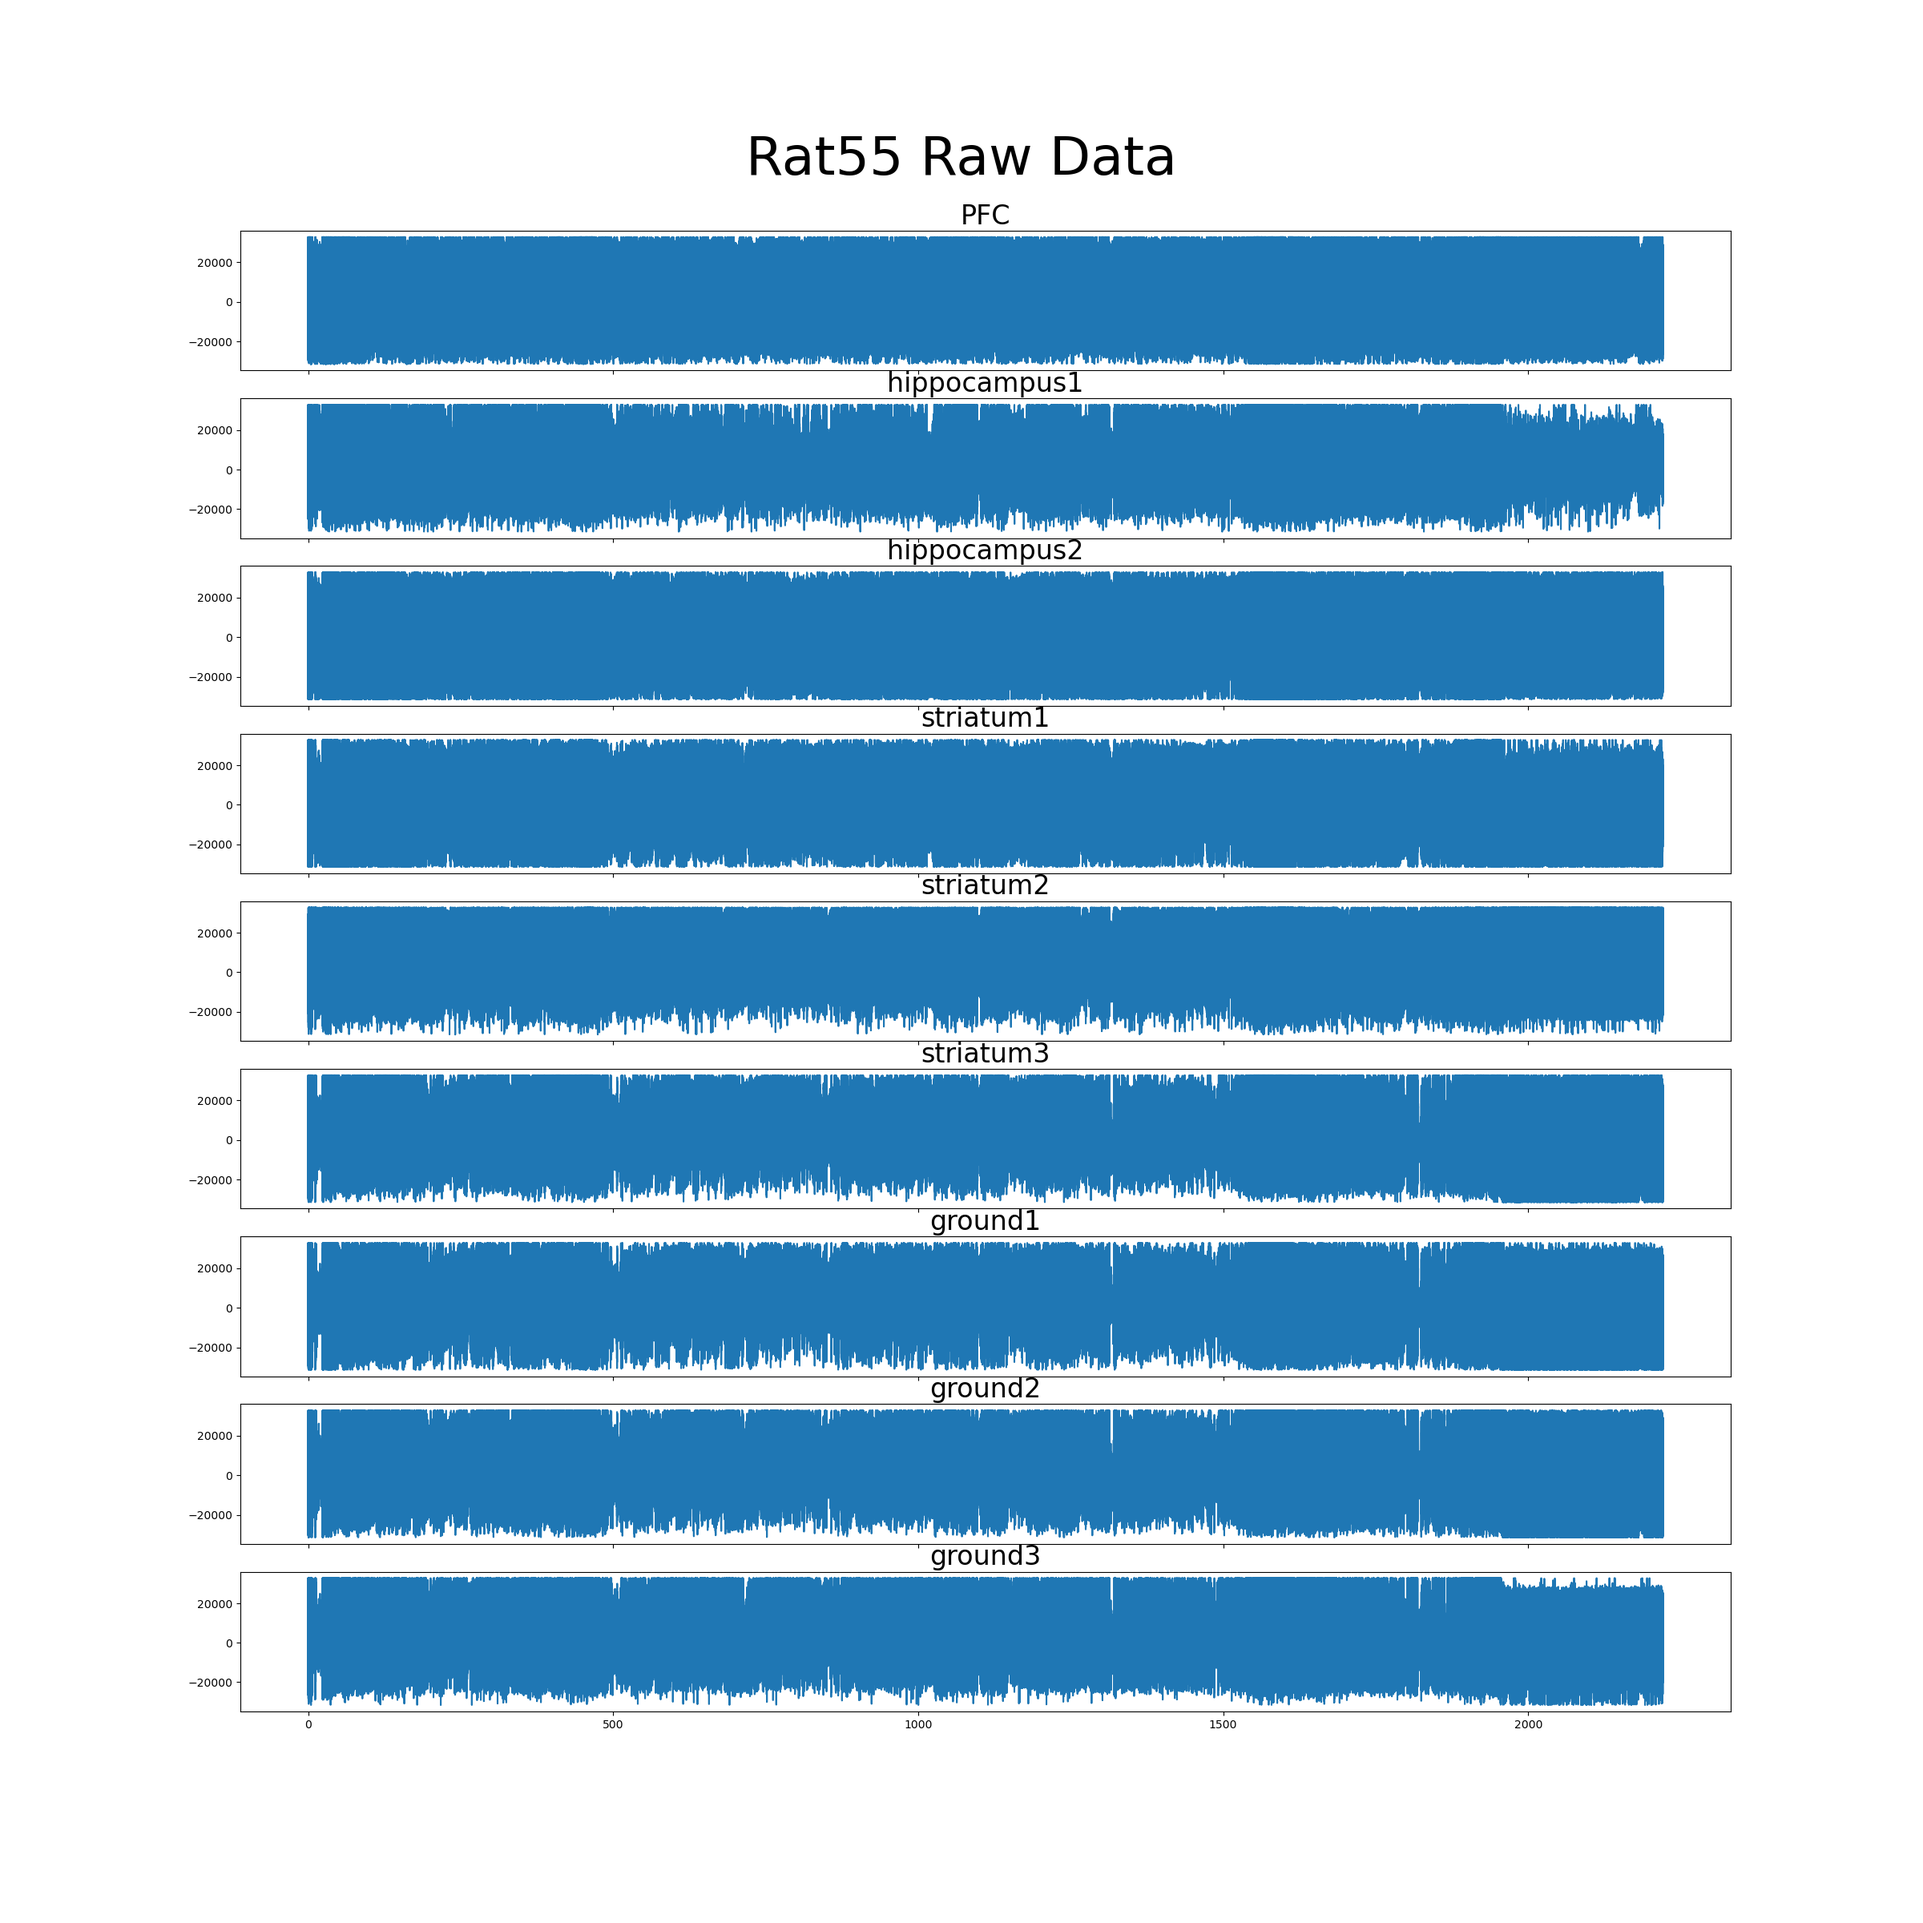
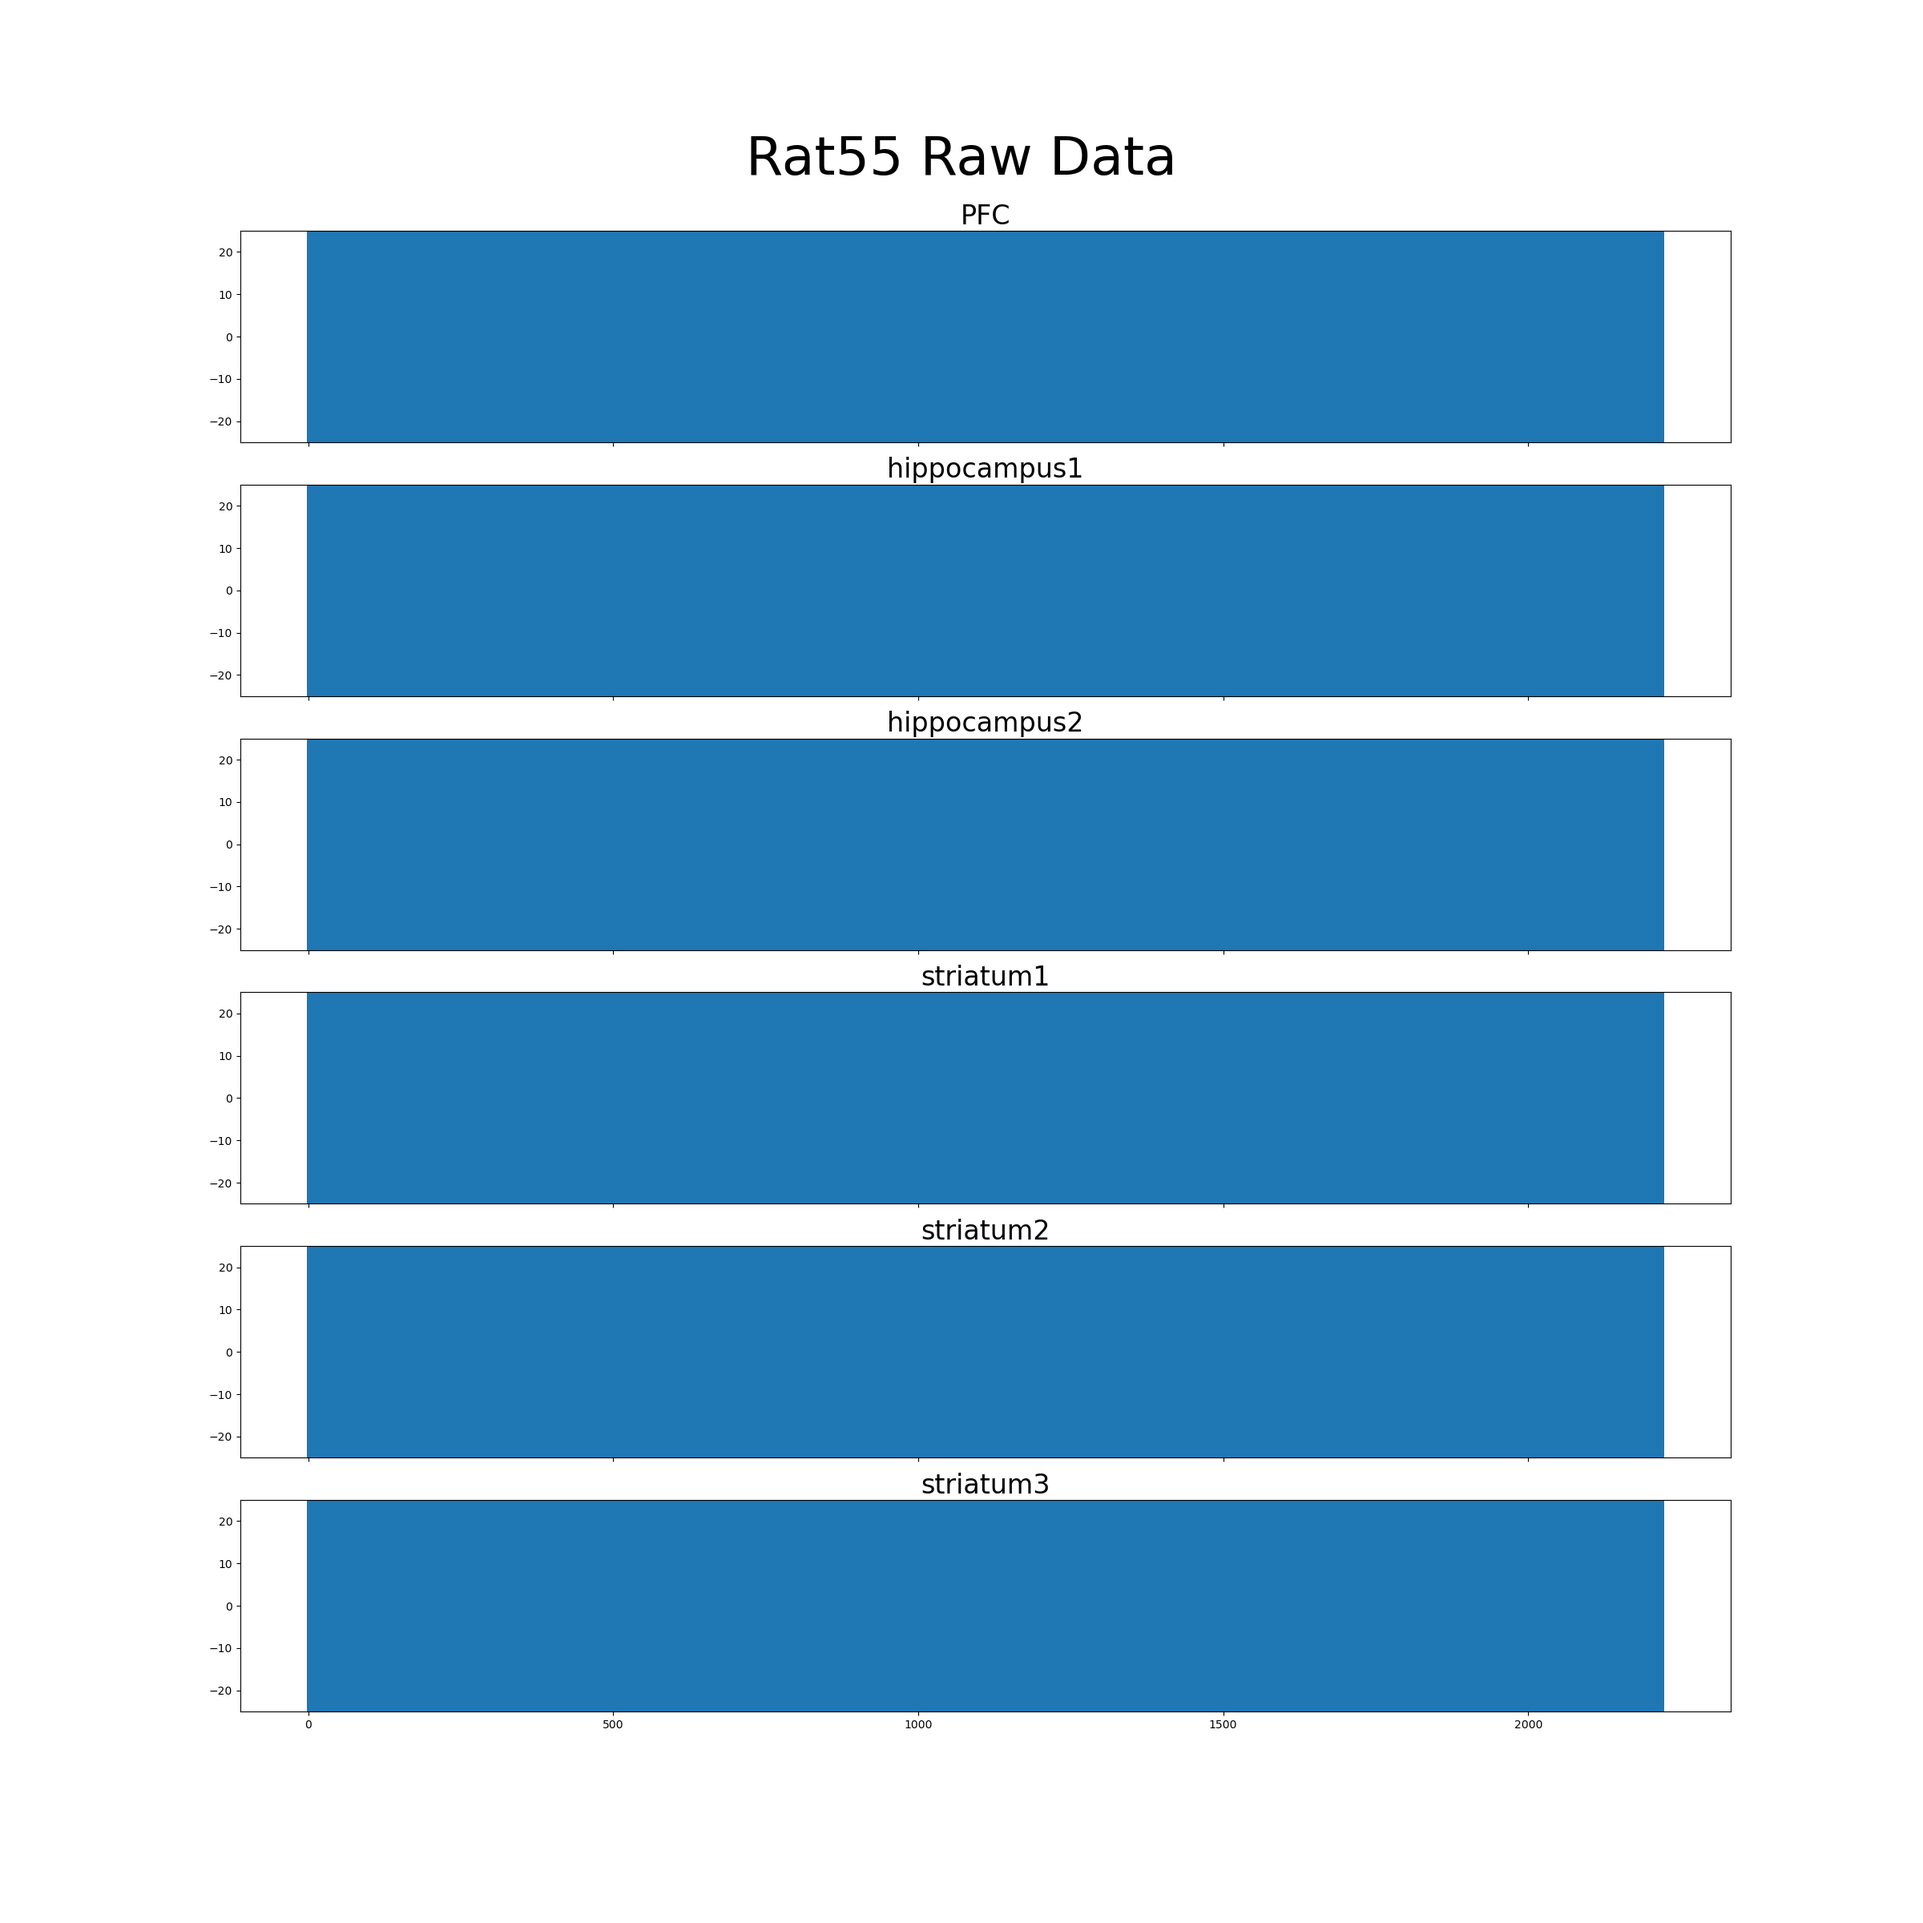
Running pipeline and editing functions. added ylim to plot_data keeping ground channels in recording channels for processing

diff --git a/src/preprocessing.py b/src/preprocessing.py
@@ -1,7 +1,7 @@
 import pandas as pd
 import numpy as np
 import matplotlib.pyplot as plt
-import scipy.signal
+import scipy.signal as signal
 from scipy.signal import welch
 import seaborn as sns
 from scipy.signal import butter, filtfilt
@@ -18,7 +18,7 @@ def proper_format(file_path):
 
 
 def mean_ground_correction(data, plot=True):
-    channels = ['PFC', 'hippocampus1', 'hippocampus2', 'striatum1', 'striatum2', 'striatum3', 'ground1', 'ground2', 'ground3']
+    channels = ['PFC', 'hippocampus1', 'hippocampus2', 'striatum1', 'striatum2', 'striatum3','ground1', 'ground2', 'ground3']
     mean_ground = ((data['ground1'] + data['ground2'] + data['ground3'])/3)
     time_vector = np.arange(start=0, stop= (len(data)))
     for chan in channels:
@@ -31,26 +31,42 @@ def mean_ground_correction(data, plot=True):
             ax[i].set_title(chan)
         plt.suptitle('Ground Corrected Data', fontsize=48,y=0.93)
         plt.show()
+    return data
 
-
-def bandpass_of_interest(data, lo, hi, fs=1024, plot=True):
-    recording_channels = ['PFC', 'hippocampus1', 'hippocampus2', 'striatum1', 'striatum2', 'striatum3']
+"""
+def bandpass_of_interest(data, lo, hi, fs=1024, plot=False):
+    channels = ['PFC', 'hippocampus1', 'hippocampus2', 'striatum1', 'striatum2', 'striatum3']
     sos = signal.butter(lo,hi,'lp', fs, output = 'sos')
     time_vector = np.arange(start=0, stop= (len(data)))
     for chan in channels:
         data[chan] = signal.sosfiltfilt(sos, data[chan])
     if plot == True:
-        fig, ax = plt.subplots(nrows=len(recording_channels), ncols=1, figsize=(24,24), sharex=True)
-        for chan in recording_channels:
+        fig, ax = plt.subplots(nrows=len(channels), ncols=1, figsize=(24,24), sharex=True)
+        for chan in channels:
             i = channels.index(chan)
             ax[i].plot(time_vector, data[chan])
             ax[i].set_title(chan, fontsize=24)
         plt.suptitle('Bandpassed Data', fontsize=48,y=0.93)
         plt.show()
     else:
-        return
+        return"""
 
-
+def bandpass_of_interest(data, lo, hi, fs=1024, plot=False):
+    N = 4  # Example order, adjust based on your needs
+    channels = ['PFC', 'hippocampus1', 'hippocampus2', 'striatum1', 'striatum2', 'striatum3', 'ground1', 'ground2', 'ground3']
+    sos = signal.butter(N, (lo, hi), 'bp', fs=fs, output='sos')
+    time_vector = np.arange(start=0, stop=(len(data)))
+    for chan in channels:
+        data[chan] = signal.sosfiltfilt(sos, data[chan])
+    if plot:
+        fig, ax = plt.subplots(nrows=len(channels), ncols=1, figsize=(24, 24), sharex=True)
+        for i, chan in enumerate(channels):
+            ax[i].plot(time_vector, data[chan])
+            ax[i].set_title(chan, fontsize=24)
+        plt.suptitle('Bandpassed Data', fontsize=48, y=0.93)
+        plt.show()
+    else:
+        return data  # Returning data might be more useful than just 'return'
 
 
 

diff --git a/tests/hypercap.py b/tests/hypercap.py
@@ -14,18 +14,17 @@ rat55_raw = preprocessing.proper_format("/Volumes/Elements/Space Radiation Proje
 rat55_raw_plot = visualization.plot_data(rat55_raw, "Rat55 Raw Data")
 
 # Bandpass raw data
-rat55_theta_raw = preprocessing.bandpass_of_interest(rat55_raw, 4, 8)
-rat55_alpha_raw = preprocessing.bandpass_of_interest(rat55_raw, 8, 13)
-rat55_beta_raw = preprocessing.bandpass_of_interest(rat55_raw, 13, 30)
+rat55_theta = preprocessing.bandpass_of_interest(rat55_raw, 4, 8)
+rat55_alpha = preprocessing.bandpass_of_interest(rat55_raw, 8, 13)
+rat55_beta = preprocessing.bandpass_of_interest(rat55_raw, 13, 30)
 
 # Ground correct raw data
-rat55_theta_corrected = preprocessing.mean_ground_correction(rat55_theta_raw, plot='False')
-rat55_alpha_corrected = preprocessing.mean_ground_correction(rat55_alpha_raw, plot='False')
-rat55_beta_corrected = preprocessing.mean_ground_correction(rat55_beta_raw, plot='False')
+preprocessing.mean_ground_correction(rat55_theta, plot='False')
+preprocessing.mean_ground_correction(rat55_alpha, plot='False')
+preprocessing.mean_ground_correction(rat55_beta, plot='False')
 
 # Plot processed data
-
-rat55_theta_plot = visualization.plot_data(rat55_theta_corrected, "Rat55 Theta Band Data")
-rat55_alpha_plot = visualization.plot_data(rat55_alpha_corrected, "Rat55 Alpha Band Data")
-rat55_beta_plot = visualization.plot_data(rat55_beta_corrected, "Rat55 Beta Band Data")
+rat55_theta_plot = visualization.plot_data(rat55_theta, "Rat55 Theta Band Data")
+rat55_alpha_plot = visualization.plot_data(rat55_alpha, "Rat55 Alpha Band Data")
+rat55_beta_plot = visualization.plot_data(rat55_beta, "Rat55 Beta Band Data")
 

diff --git a/src/visualization.py b/src/visualization.py
@@ -5,15 +5,16 @@ import matplotlib.pyplot as plt
 from scipy.fft import fft, ifft
 
 def plot_data(data, title):
-    output_dir = "output/plots"
+    output_dir = "output/plots/"
     #os.makedirs(output_dir, exist_ok=True)
-    channels = ['PFC', 'hippocampus1', 'hippocampus2', 'striatum1', 'striatum2', 'striatum3', 'ground1', 'ground2', 'ground3']
+    channels = ['PFC', 'hippocampus1', 'hippocampus2', 'striatum1', 'striatum2', 'striatum3']
     time_vector = np.arange(start=0, stop= (len(data)))
     fig, ax = plt.subplots(nrows=len(channels), ncols=1, figsize=(24,24), sharex=True)
     for chan in channels:
         i = channels.index(chan)
         ax[i].plot(time_vector/1024, data[chan])
         ax[i].set_title(chan, fontsize=24)
+        ax[i].set_ylim(-25,25)
     plt.suptitle(f'{title}', fontsize=48,y=0.93)
     plt.savefig(os.path.join(output_dir, f"{title}.png"))  # Ensure the filename is valid
     plt.close()
